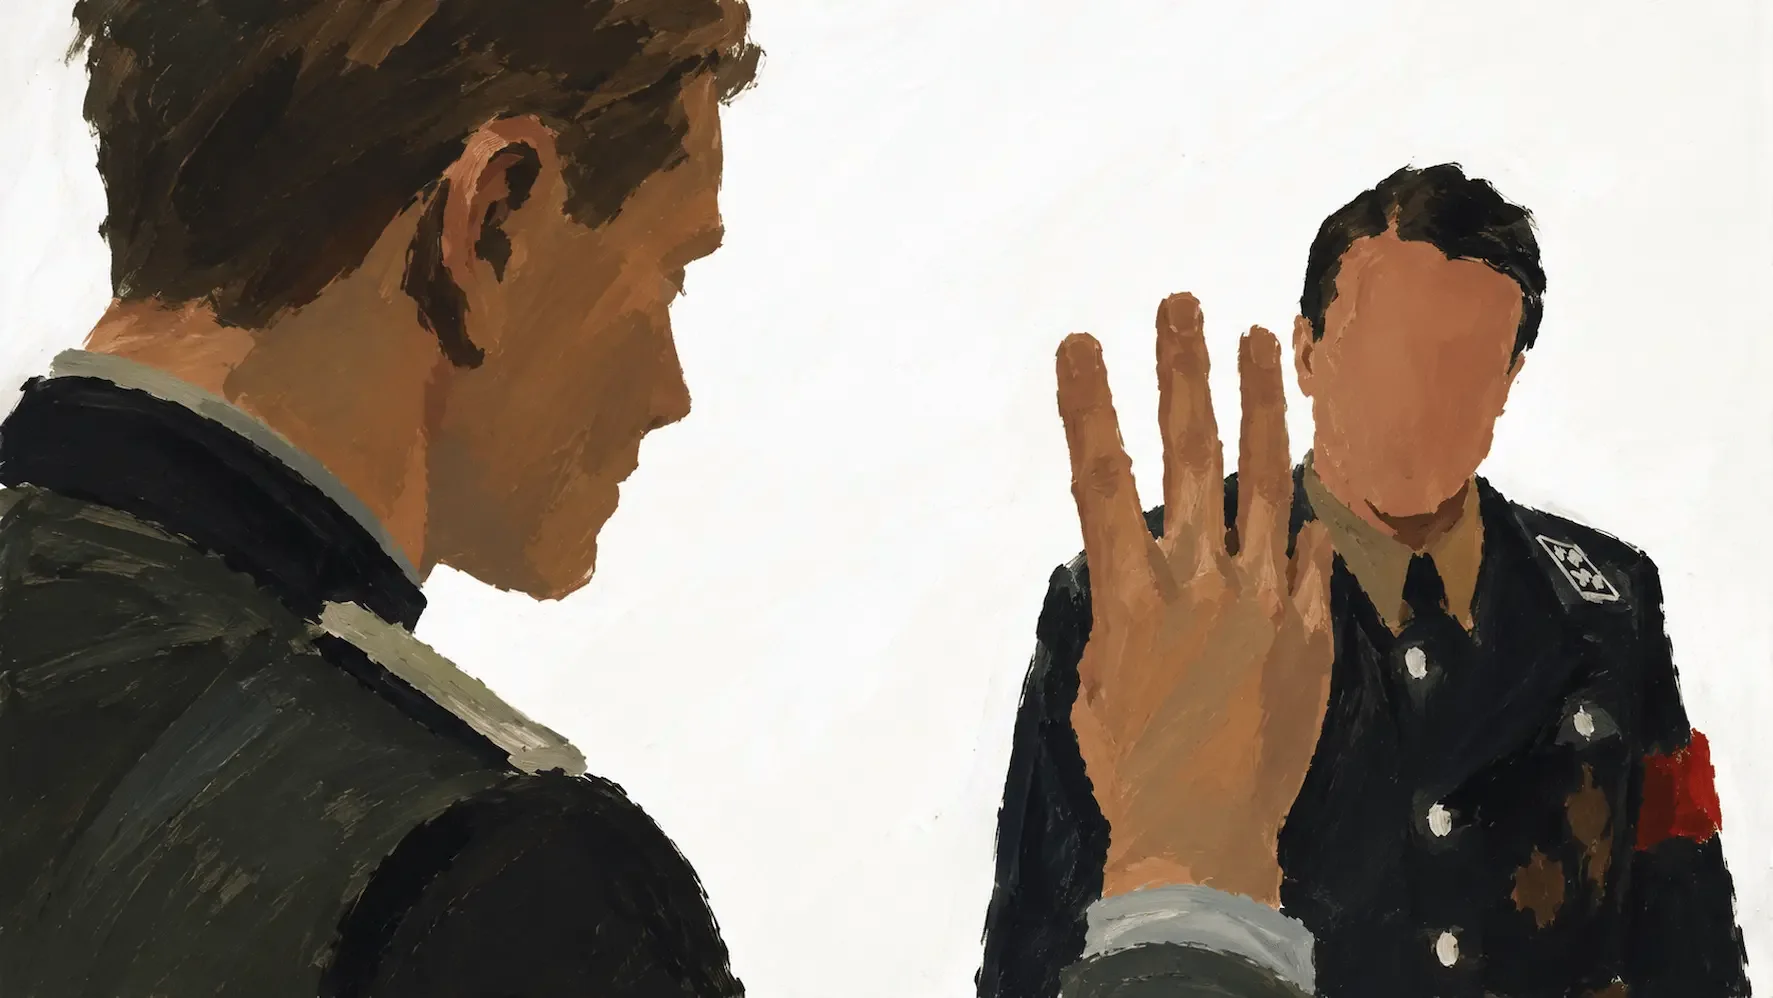
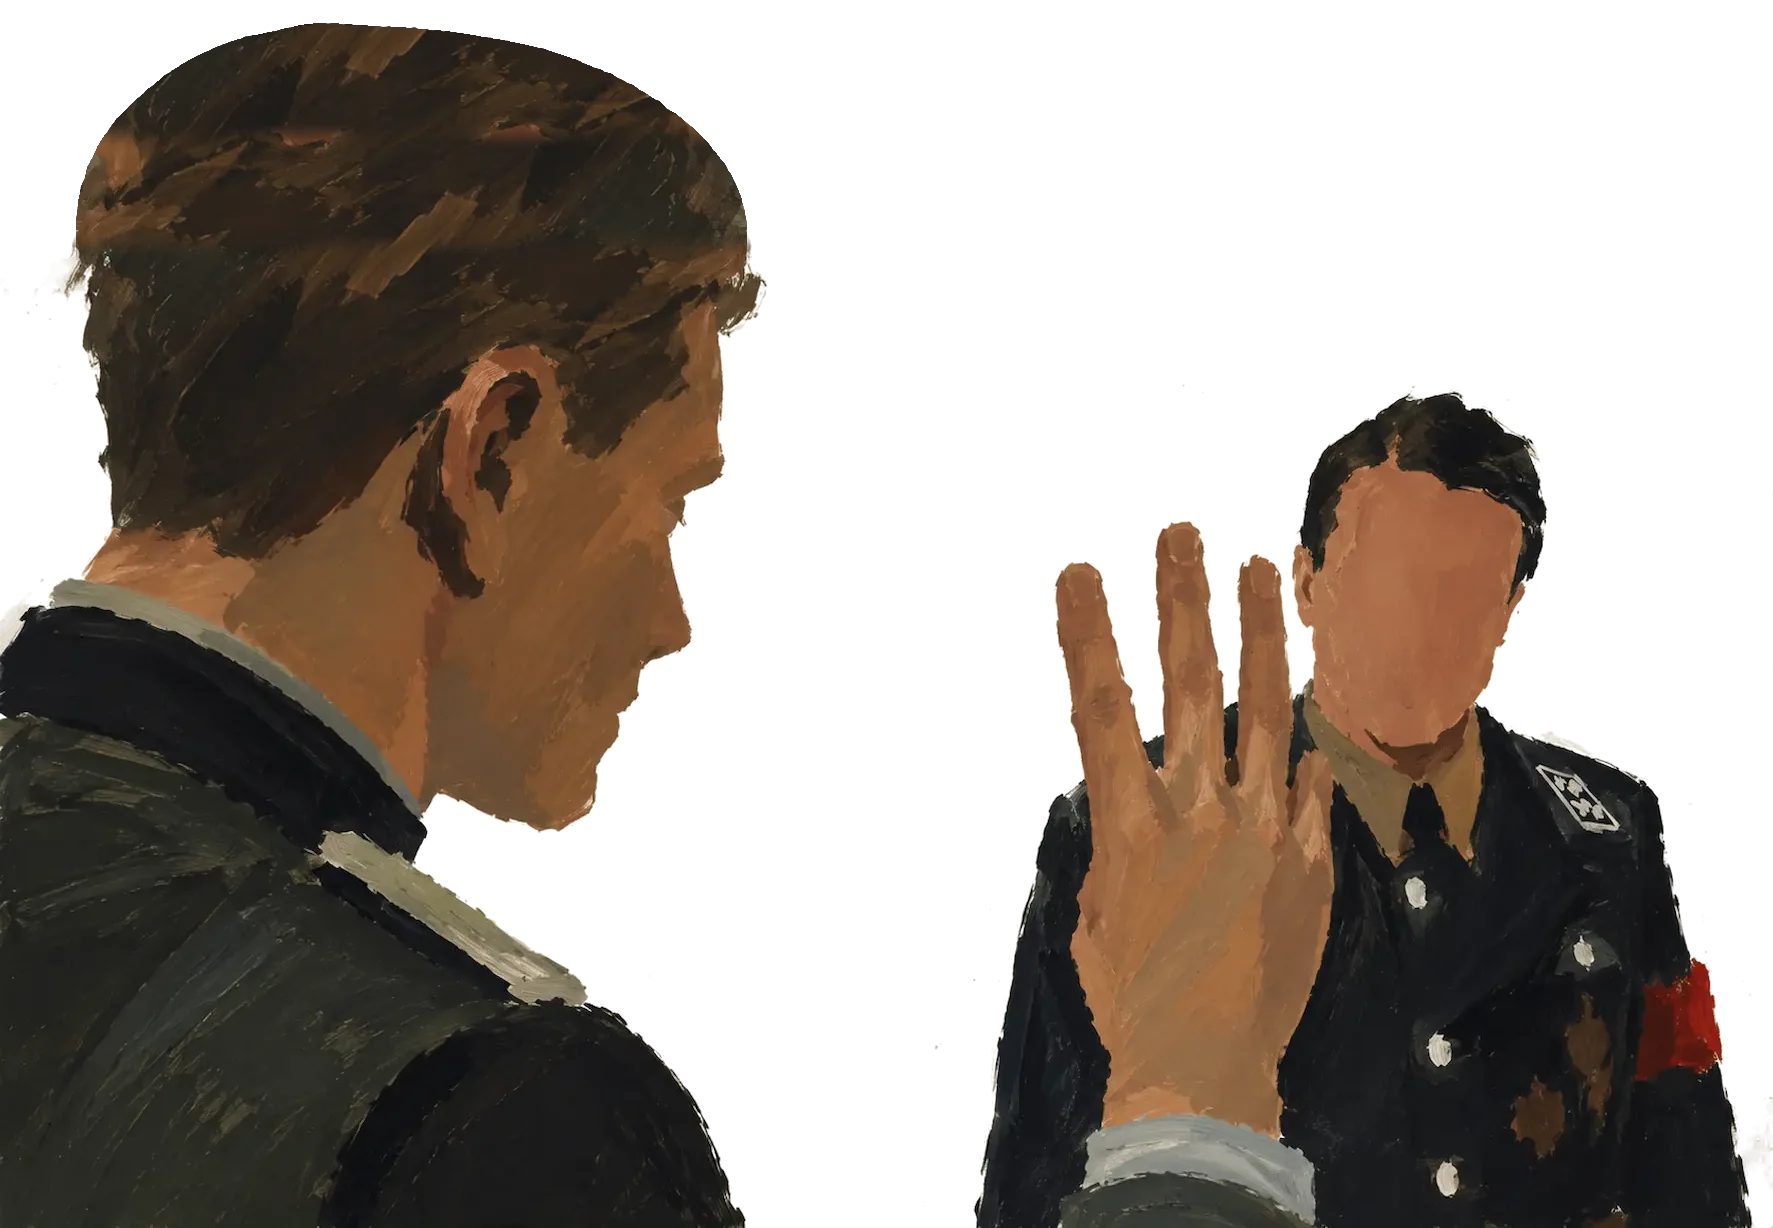
Add files via upload

diff --git a/404.html b/404.html
@@ -28,63 +28,64 @@
       -webkit-font-smoothing: antialiased;
     }
 
-    /* Picture: flush with the bottom-left corner */
+    /* Picture: transparent background, flush with the bottom-left corner */
     .art {
       position: fixed;
       left: 0;
       bottom: 0;
       display: block;
-      width: min(82vw, 128vh, 1773px);
+      width: min(82vw, 112vh, 1773px);
       height: auto;
+      pointer-events: none;
     }
 
     /* Text: top right */
     main {
       position: fixed;
-      top: clamp(28px, 7vh, 80px);
+      top: clamp(28px, 8vh, 88px);
       right: clamp(24px, 6vw, 88px);
-      max-width: min(26rem, calc(100vw - 48px));
-      text-align: right;
+      text-align: left;
     }
 
     h1 {
       margin: 0;
       font-family: Georgia, "Times New Roman", Times, serif;
       font-weight: 700;
-      font-size: clamp(2.25rem, 6vw, 4.25rem);
+      font-size: clamp(2rem, 4.2vw, 3.5rem);
       letter-spacing: -0.01em;
-      line-height: 1.1;
+      line-height: 1.08;
       color: var(--title);
     }
 
-    p {
-      margin: 0.8rem 0 0;
+    .home {
+      display: inline-block;
+      margin-top: 1.5rem;
+      padding: 0.65em 1.3em;
       font-family: Georgia, "Times New Roman", Times, serif;
-      font-size: clamp(1rem, 3.2vw, 1.15rem);
-      line-height: 1.5;
-      color: var(--sub);
+      font-size: 1rem;
+      line-height: 1;
+      color: var(--title);
+      text-decoration: none;
+      border: 1px solid var(--title);
+      transition: background-color 0.15s, color 0.15s;
     }
 
-    a {
-      color: var(--sub);
-      text-decoration: underline;
-      text-underline-offset: 0.2em;
-      text-decoration-thickness: 1px;
+    .home:hover, .home:focus-visible {
+      background: var(--title);
+      color: var(--bg);
     }
-
-    a:hover, a:focus-visible { color: var(--title); }
 
     /* Narrow or portrait screens: picture spans the full width */
     @media (max-width: 700px), (max-aspect-ratio: 1/1) {
-      .art { width: 100vw; }
+      .art { width: 112vw; }
     }
   </style>
 </head>
 <body>
-  <img class="art" src="/404-picture.webp" width="1773" height="998" alt="Painting of a man in uniform holding up three fingers to another man whose face is blank">
+  <img class="art" src="/404-picture.webp" width="1773" height="1228" alt="Painting of a man in uniform holding up three fingers to another man whose face is blank">
   <main>
-    <h1>Something went wrong</h1>
-    <p><a href="/">Return home</a></p>
+    <h1>Something<br>went wrong</h1>
+    <a class="home" href="/">Return home</a>
   </main>
 </body>
 </html>
